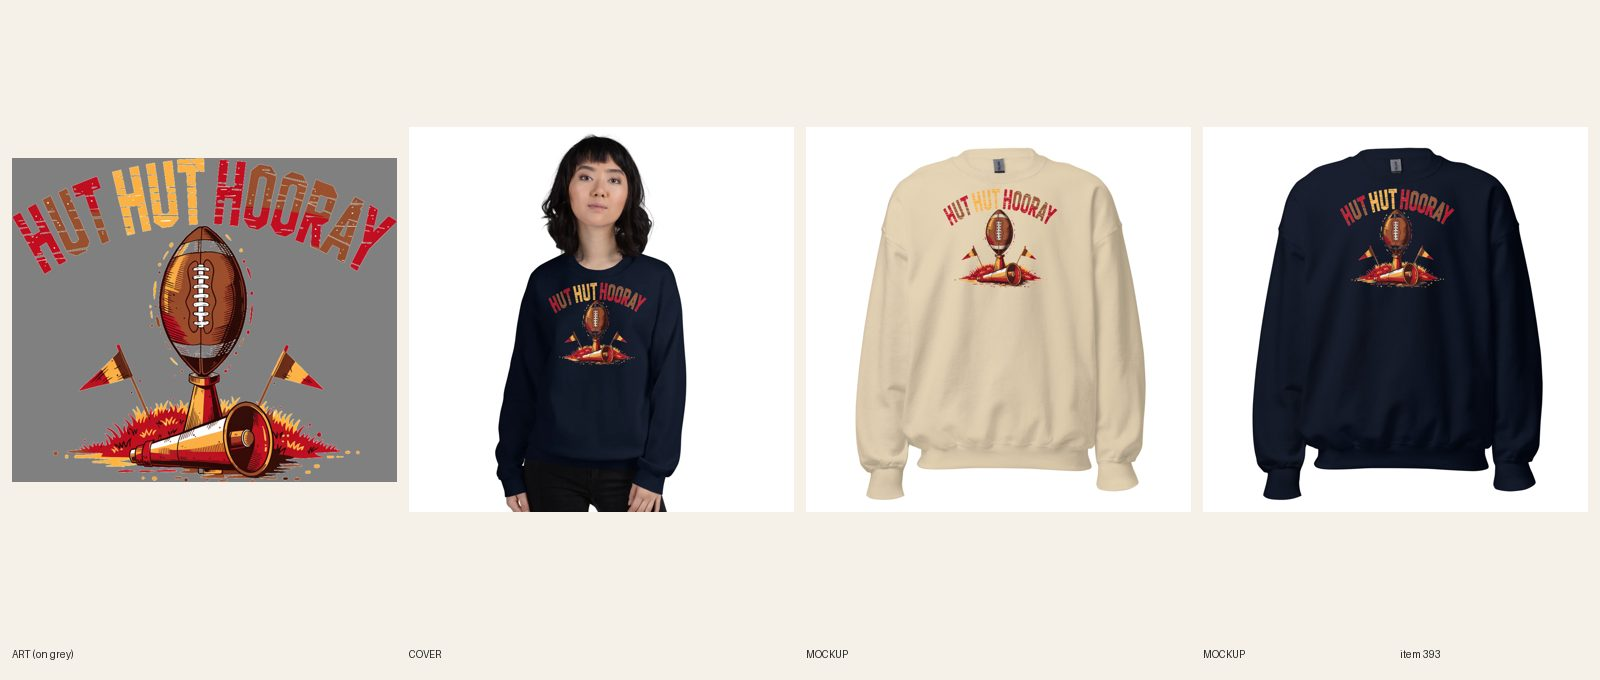
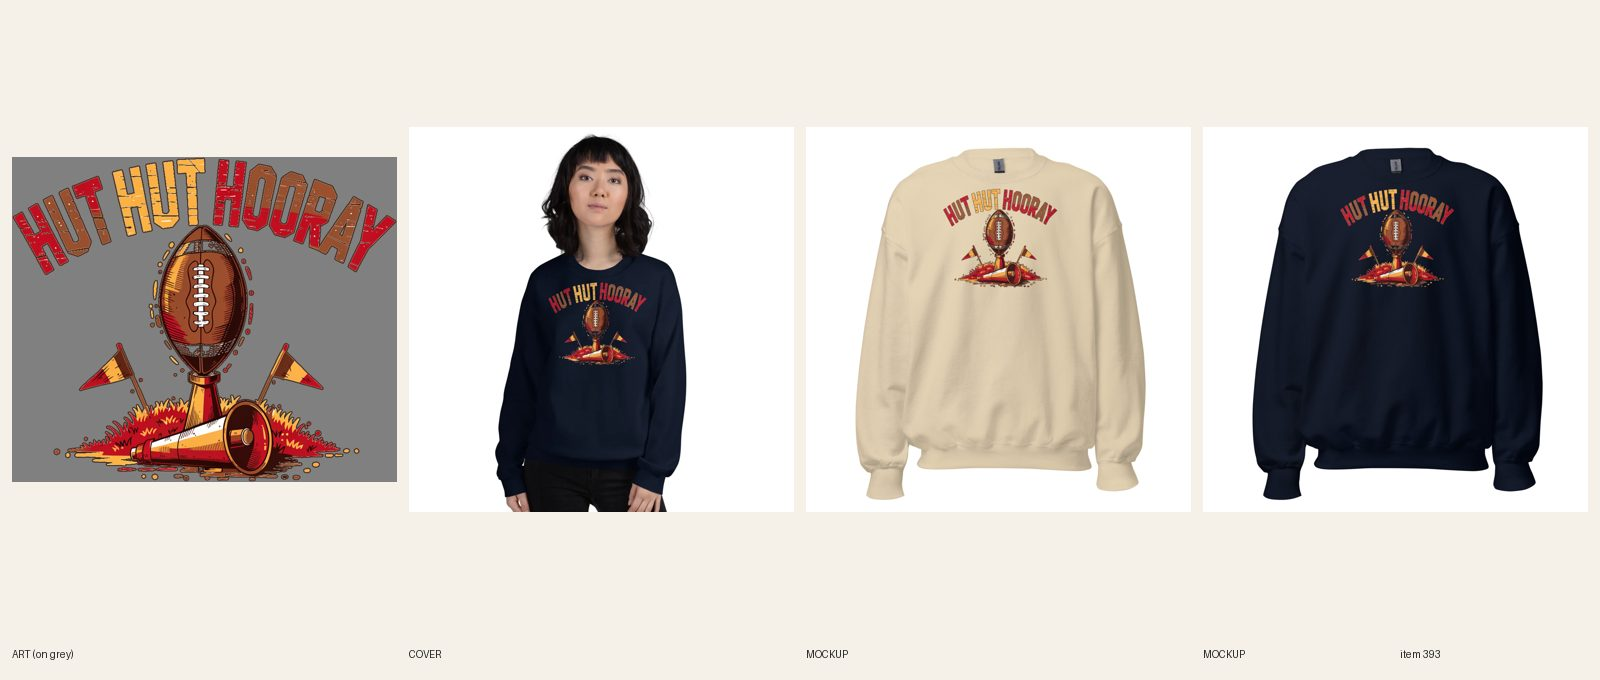
[B] review 393 Hut Hut Hooray crewneck (REDO keyline)

diff --git a/docs/intake-log.md b/docs/intake-log.md
@@ -1,4 +1,4 @@
-RUNNING lane B since 2026-10-17 09:26 UTC
+2026-10-17 09:41 UTC — [B] REVIEW #393 Hut Hut Hooray crewneck REDO (brown keyline around the whole print so mustard HUT reads on Sand, new file 1088139694 FW 1650, new Sand+Navy mockups). Fal storage 403 so file hosted via repo raw. Other lane B READY: 378-382/385 need hand re-letter (fal), 354 needs fal cover, 404-409 new art (ART-NEXT drafts next). Lock released.
 2026-10-17 09:23 UTC — [D] Director run 21: 3 REVIEW items. 2 LIVE (ACTIVE + Online Store + Headless + Google & YouTube, audit --handle PASS with the expected thanksgiving-tag warn, pages 200 after a manual nightly-rebuild deploy): #392 Here for the Scraps dog mom hoodie (SWAP; 3-question FAQ template rewritten by the director to 5 x 47-55 words), #399 Turkey Trot hoodie (SWAP). #393 Hut Hut Hooray crewneck REDO: mustard HUT nearly vanishes on Sand (R5.3.5/R7.2), keyline in print-prep or Sport Grey; no fal needed. Inbox: nothing new. Queue: lane A 12 READY (#278 Bah Humbug hoodie twin back from PARKED: the holiday KD ≤ 35 band is exhausted and 'christmas hoodie' 9,900/52 is the christmas-hoodies collection head; new #400 Sleighping In hoodie twin, holiday hoodie 590/69; cold-weather overflow per R11.5: #401 owl hoodie 880/31, #402 ice fishing heavyweight 210/34, #403 introvert hoodie 1,300/38). Lane B 12 READY (#404 video game hoodie 2,900/28 for y2k-hoodies, #405 dragon hoodie 2,900/34 anime, #406 bunny cropped hoodie 2,900/34, #407 sasquatch heavyweight 390/35, #408 shark oversized hoodie 27,100/20, #409 trucker heavyweight 320/32). Registry 591-600. Rejected: sleep hoodie (0% US, pillow intent), christmas shirts women (collection head). Telegram: 1 ping. Lock released.
 2026-10-17 08:43 UTC — [H] Helper run: Telegram inbox empty (getUpdates returned nothing, nothing to consume). Audit (312 live products): 66 errors, all price format (./- should be ./.), left for builders; 13 warnings left alone; no meta, SEO or collection errors to fix. Category check (one-time rule, still checking): 0 products without a category (positive control: a known product returns aa-1-13-8). Site freshness: unisex-thanksgiving-mash-hour-hoodie, womens-thanksgiving-cute-but-corny-hoodie, womens-thanksgiving-spill-the-gravy-hoodie all 200. Stuck check: none (lane A last commit 08:31 UTC, lane B 08:35 UTC; no lane lock older than 2 hours). Daily summary not due (next after 12:00 UTC). Lock released.
 2026-10-17 09:07 UTC — [A] price fixes (holiday, compare-at cleared, price unchanged) on 25 products: 13 tees (sleigh queen, nap queen, mash hour, totally a pilgrim, here for the scraps, define naughty, bah humbug, sleighping in, dough ho ho, snow problem, spill the gravy, cute but corny, kids table alumni) and 12 crewnecks (light show manager, jolly-ish, technically a sweater, bah humbug, sleighping in, embroidered extra marshmallows, dough ho ho, lit-up bow, merry woofmas, resting my eyes, snow problem, spill the gravy, cute but corny). Note: embroidered extra marshmallows crewneck is $42.99 by the R12.1 embroidery rule (34.99 + chest + cuff); the audit message says 39.99, director to confirm. Holiday compare-at errors should now be zero. Lane A run summary: REVIEW #399 Turkey Trot hoodie (twin; the other lane A READY twins #274 #276 #284 #319 #387 #389 #391 wait on new parent art, fal empty). Lock released.

diff --git a/docs/pipeline/393-football-mom-crew-hut-hut-hooray.md b/docs/pipeline/393-football-mom-crew-hut-hut-hooray.md
@@ -1,4 +1,4 @@
-status: REDO
+status: REVIEW
 cover: temp
 lane: B
 type: twin
@@ -28,3 +28,4 @@ kd: 58
   2. R5.3.2: while re-prepping, check the print fills the chest: on the Sand mockup the art looks narrower than other FW 1650 crewnecks (#348, #377); if the file has transparent side margins, trim the canvas to the art before setting FW 1650.
   3. Cover: temp is fine for now; it's a SWAP (white catalog backdrop, unsmiling). Keep the style unless another live item uses 1174 (R6.6).
   Lettering itself passes R6.2 (per-letter fills, fused, uneven heights); copy and FAQs pass.
+- 2026-10-17 09:40 UTC builder [B]: REDO done (no fal). Print file: dark brown (3B2012) keyline, 8 px at 3600, under the whole art (outline follows every letter, ball, pennants; no panel), canvas padded 16 px so the art has no side margin issue (it already ran edge to edge, so no transparent margins to trim). New Printful file 1088139694 (3632x3066; fal storage returned 403 so hosted via repo raw at docs/print-files/393-hut-key.png), setfile FW=1650 TOP=0 on all 12 variants. Fresh Sand + Navy mockups, old front images replaced and re-linked to their color variants, back view unchanged. Phone-size read (400 px) on Sand: HUT HUT HOORAY all legible, middle HUT now outlined. Cover unchanged (temp, style 1174, no live item swap needed). cohesion-audit --handle crashed locally (spawn error, no network audit), variant colors are Sand and Navy each with own photo. Sheet docs/review/393.jpg. REVIEW.
